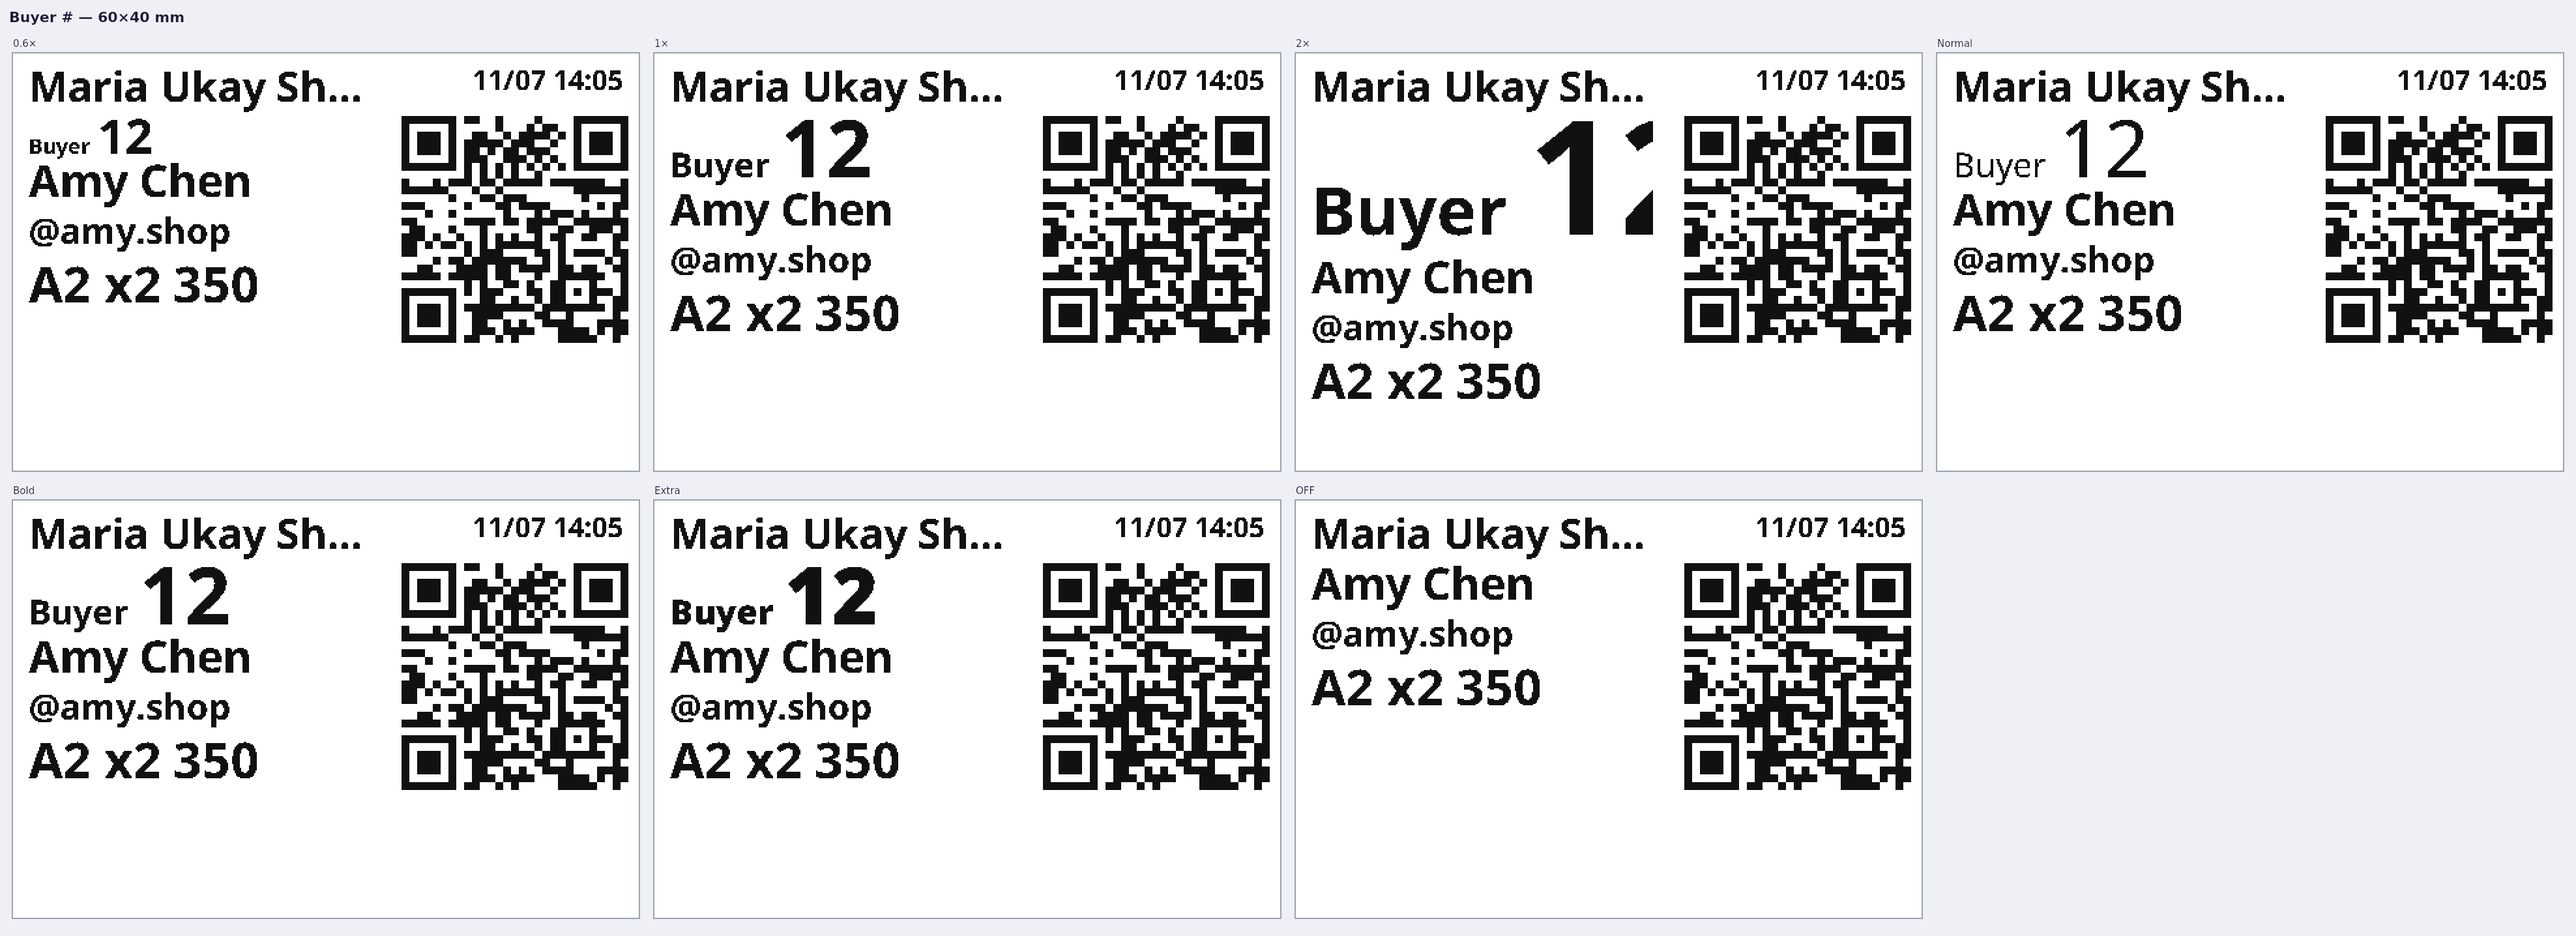
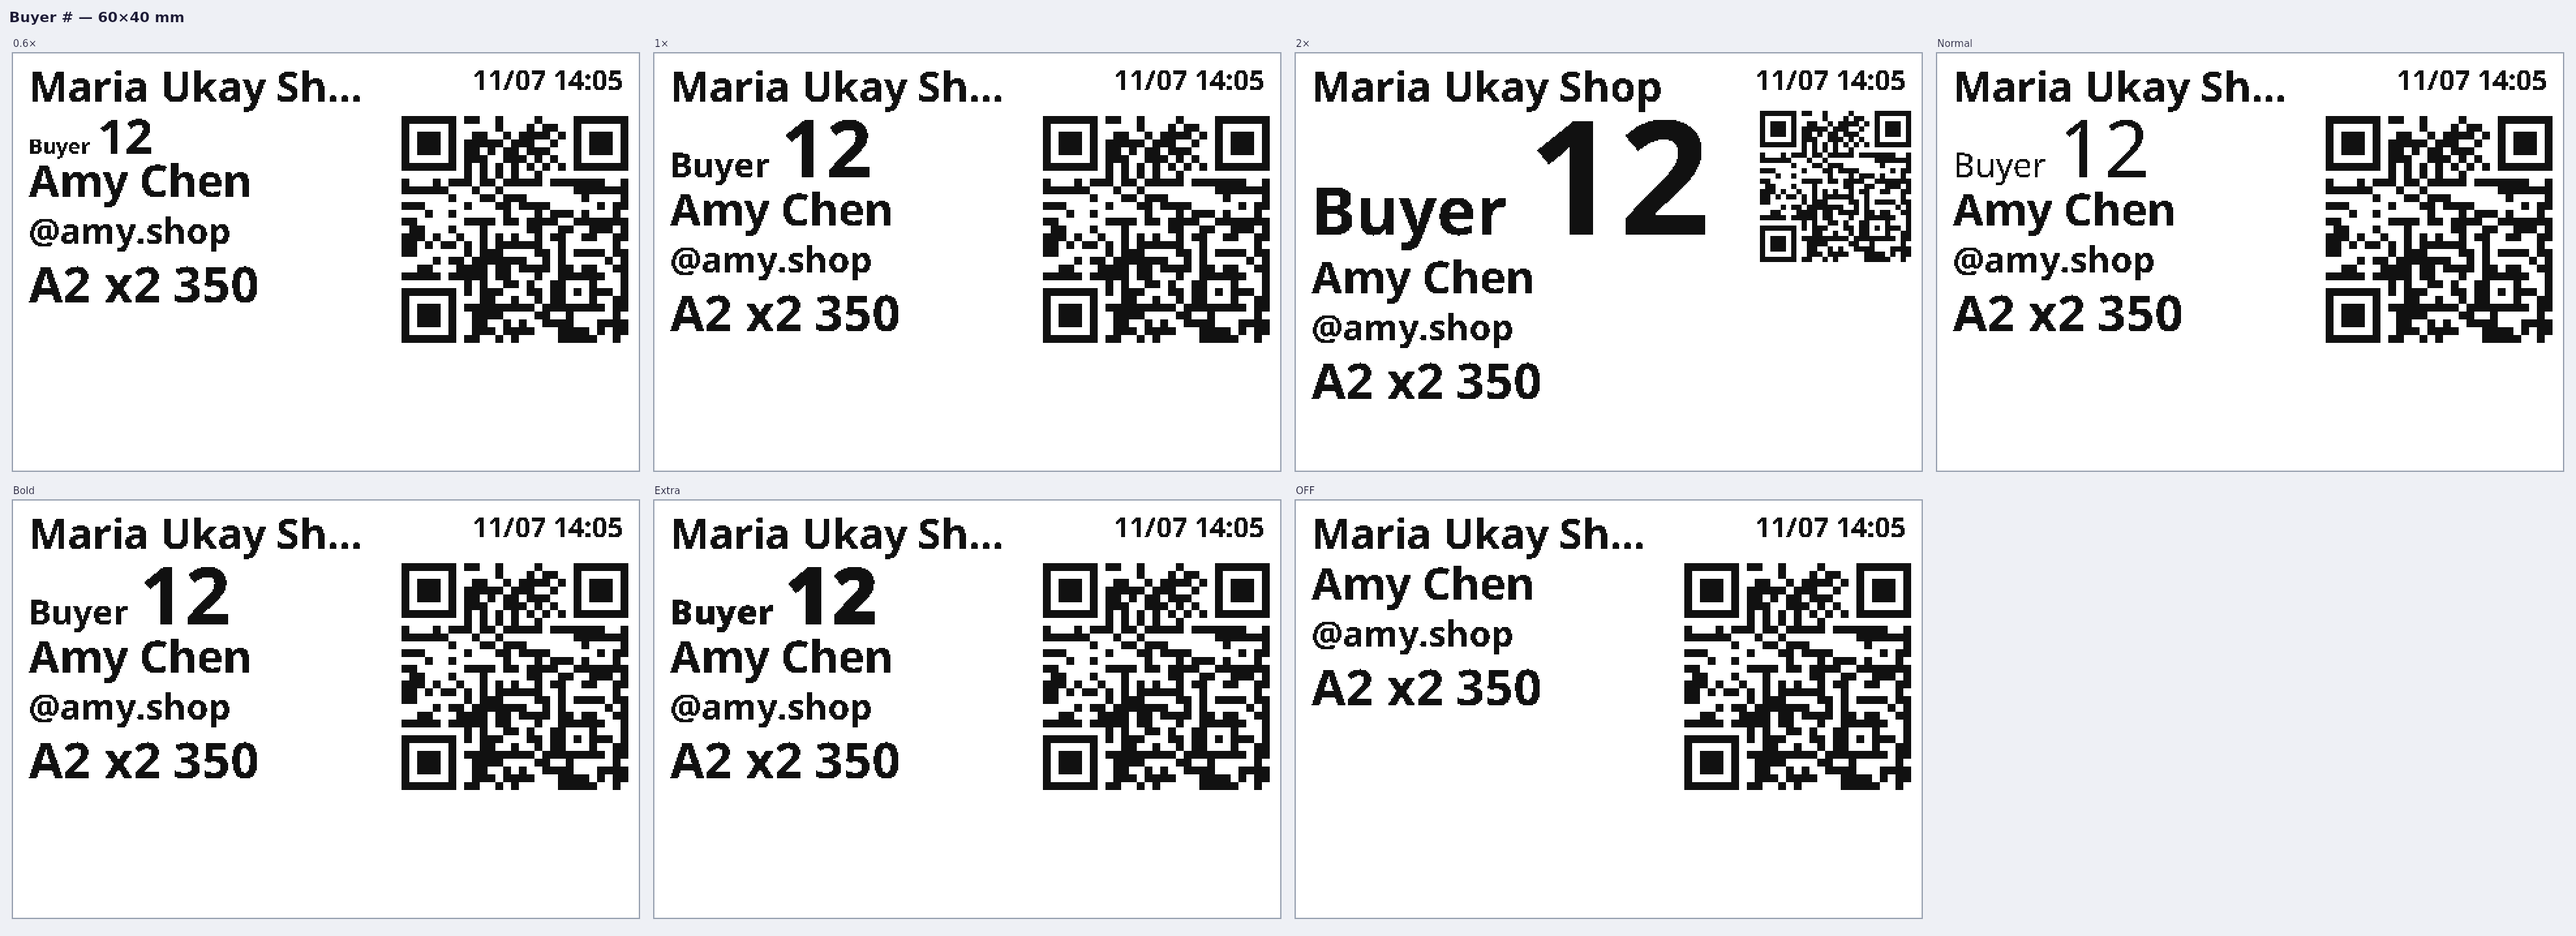
One sticker: pictures regenerated + buyer-numbers/ (custom sizes and bigger Buyer # with 4-digit numbers, with the screen's note); Chrome print 96/96, 0 pixels different
Claude-Session: https://claude.ai/code/session_016eKNVUSjjPXywP8qaFW4Mh

Changed region(s): [[0.6225, 0.0919, 0.747, 0.3677]]

diff --git a/src/redesign/adapters/__tests__/oneSticker.proof.test.ts b/src/redesign/adapters/__tests__/oneSticker.proof.test.ts
@@ -7,8 +7,8 @@
 import fs from "node:fs";
 import path from "node:path";
 import { describe, expect, it, vi } from "vitest";
-import { recommendedSettings, renderOneSticker, type OneStickerSettings, type PartKey, type Weight } from "../oneSticker";
-import { oneStickerInputFrom, renderOptsFor, oneStickerFonts, laptopPage, type OneStickerPath } from "../oneStickerPrint";
+import { recommendedSettings, renderOneSticker, screenFitNotes, type OneStickerSettings, type PartKey, type Weight } from "../oneSticker";
+import { oneStickerInputFrom, renderOptsFor, oneStickerFonts, laptopPage, sampleInput, type OneStickerPath } from "../oneStickerPrint";
 import { knownTsplJob } from "../printerModels";
 import { fbNameOnly, printableBuyer } from "../fbName";
 import { buildNativeStickerPayload, buildNiimbotImage, setStickerQrEntitled, setStickerQrOn, DEF_SETTINGS, printSlip, __resetWebPrintQueue } from "../printing";
@@ -250,5 +250,32 @@ describe.skipIf(!OUT)("one sticker — proof pictures", () => {
       write(`today-vs-new/aimo-d520_${size}.png`, sheet(cells, 2, w >= 80 ? 1 : 2, `AIMO D520 ${size.replace("x", "×")} — TODAY vs NEW (what the printer receives; QR on)`));
     }
     setStickerQrOn(false);
+  }, 600000);
+  it("buyer numbers: custom 50×40 / 50×50 / 50×70 / 40×60 (Niimbot, D520) and Buyer # 1.15× / 1.3× on 50×30 / 60×40 — #128 vs #1234 / #8888, with the screen's note", async () => {
+    installSans(); installNodeFallbackDrawer();
+    const base = SAMPLES.find((x) => x.key === "tiktok-qr")!;
+    const withNum = (n: number): Buyer => ({ ...base.buyer, num: n, orders: base.buyer.orders.map((o) => ({ ...o, bNum: n })) } as Buyer);
+    const noteOf = async (s: OneStickerSettings, path: OneStickerPath) => {
+      const inp = sampleInput(base.shop);
+      const n = screenFitNotes(s, inp, await oneStickerFonts(s, inp), renderOptsFor(path, s));
+      return n.some((x) => x.kind === "bad") ? "screen: RED" : n.some((x) => x.kind === "ok") ? "screen: fits" : "screen: amber";
+    };
+    for (const path of ["niimbot", "d520"] as OneStickerPath[]) {
+      const cells = [];
+      for (const [w, h] of [[50, 40], [50, 50], [50, 70], [40, 60]]) {
+        const s = { ...recommendedSettings({ w, h }), size: { w, h, custom: true }, qr: true };
+        const note = await noteOf(s, path);
+        for (const n of [128, 8888]) cells.push({ title: `${w}×${h} #${n} · ${note}`, r: await render(path, s, withNum(n), base.shop), frameW: w * 8, frameH: h * 8 });
+      }
+      write(`buyer-numbers/custom_${path}.png`, sheet(cells, 2, 2, `${path === "niimbot" ? "Niimbot (SDK frame)" : "AIMO D520"} — custom sizes, recommended settings, buyer #128 vs #8888 (today's sticker has no custom size)`));
+    }
+    const cells = [];
+    for (const [w, h] of [[50, 30], [60, 40]]) for (const scale of [1.15, 1.3]) {
+      const s = { ...recommendedSettings({ w, h }), qr: true };
+      s.parts.buyer.scale = scale;
+      const note = await noteOf(s, "d520");
+      for (const n of [128, 1234]) cells.push({ title: `${w}×${h} Buyer # ${scale}× #${n} · ${note}`, r: await render("d520", s, withNum(n), base.shop), frameW: w * 8, frameH: h * 8 });
+    }
+    write("buyer-numbers/bigger-number_d520.png", sheet(cells, 2, 2, "AIMO D520 — Buyer # 1.15× / 1.3×: #128 vs #1234 (the screen is red whenever a 4-digit number would be cut)"));
   }, 600000);
 });
